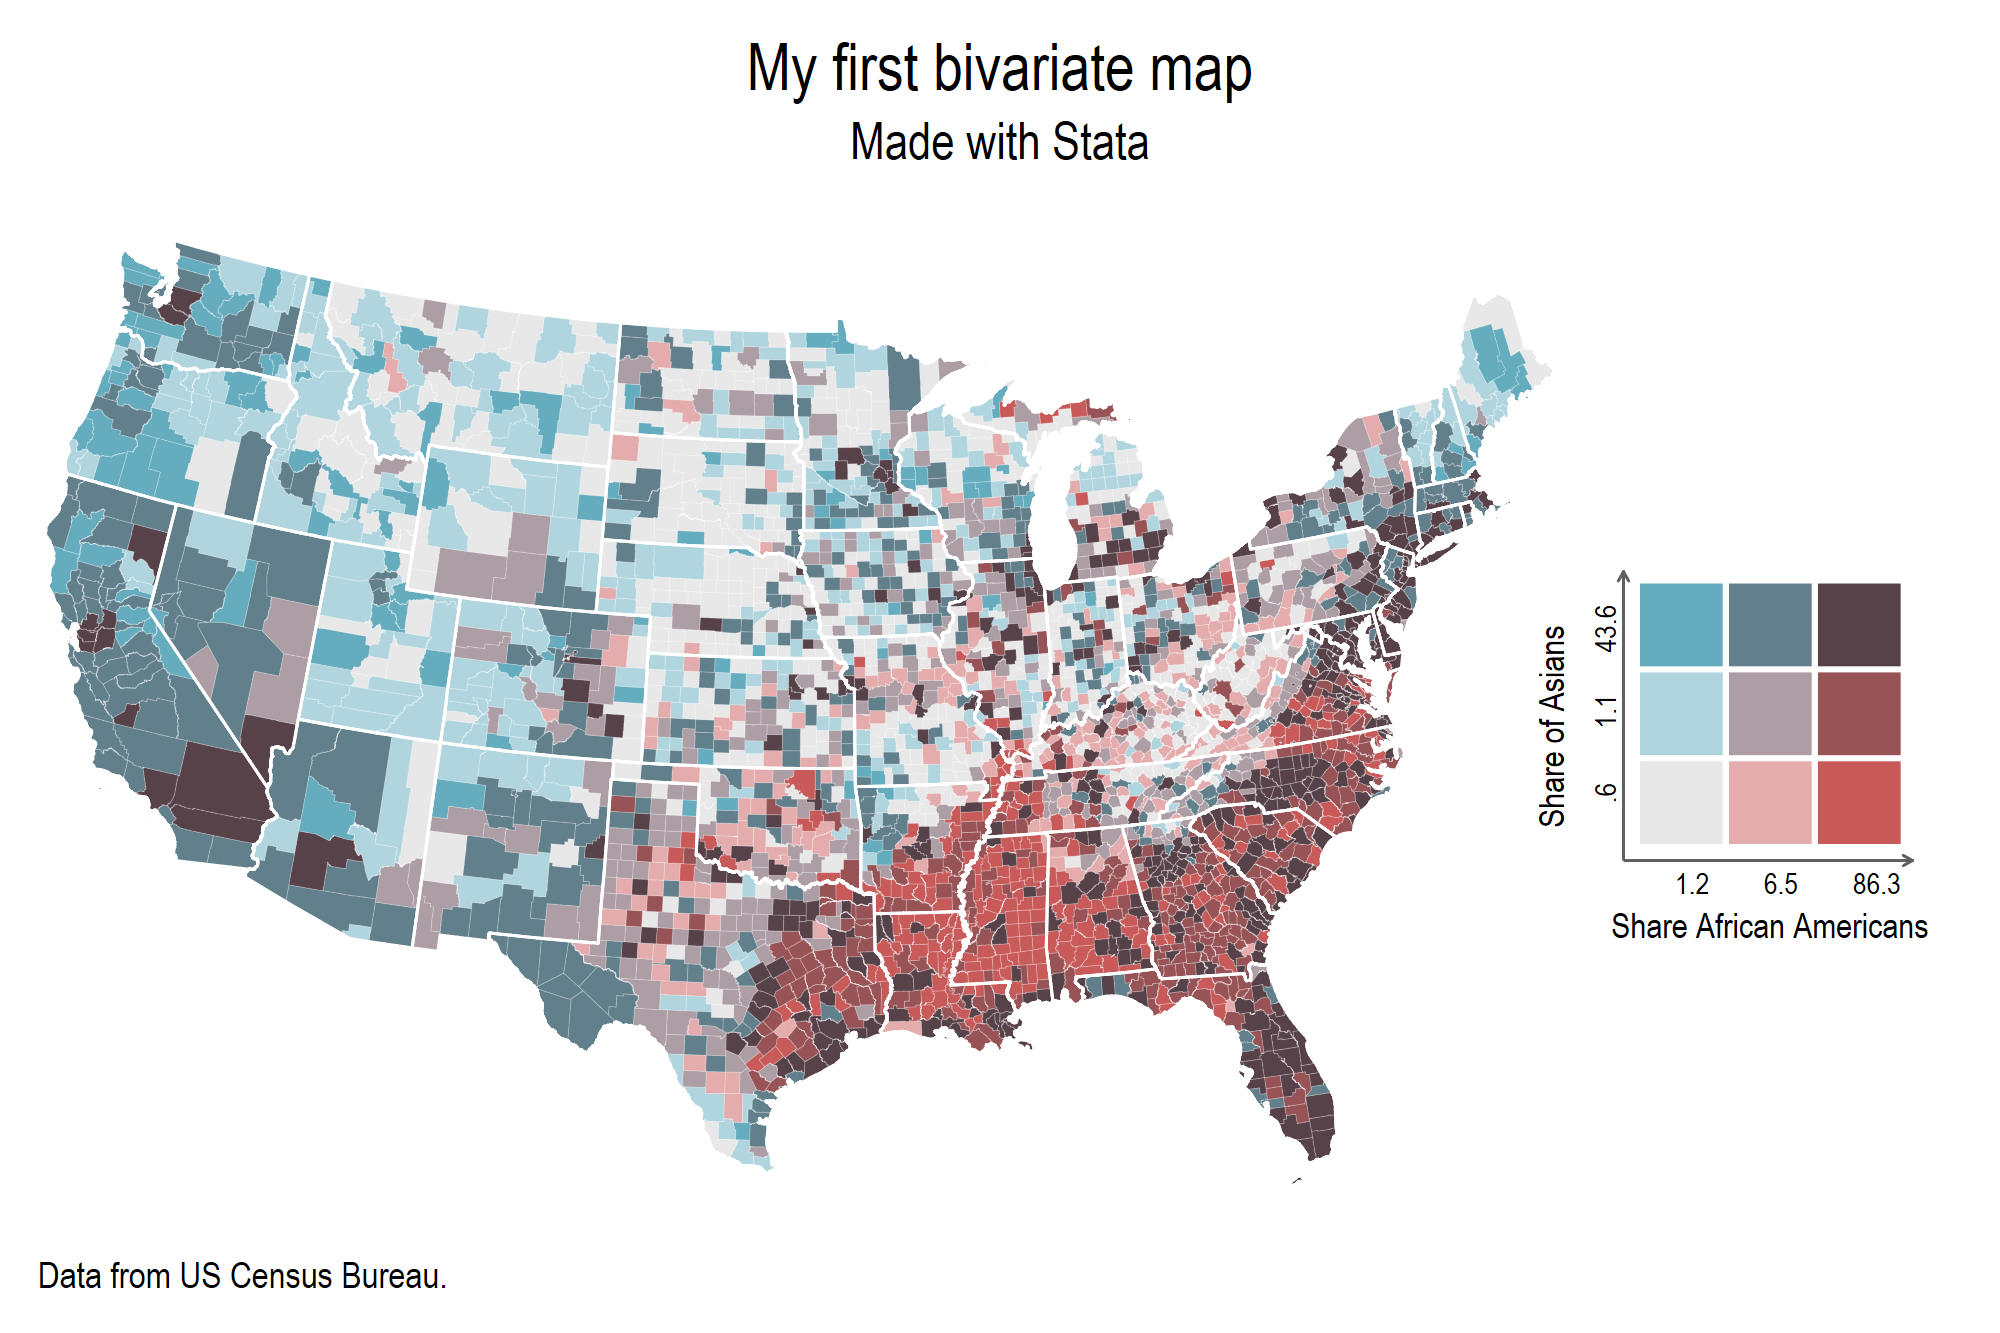
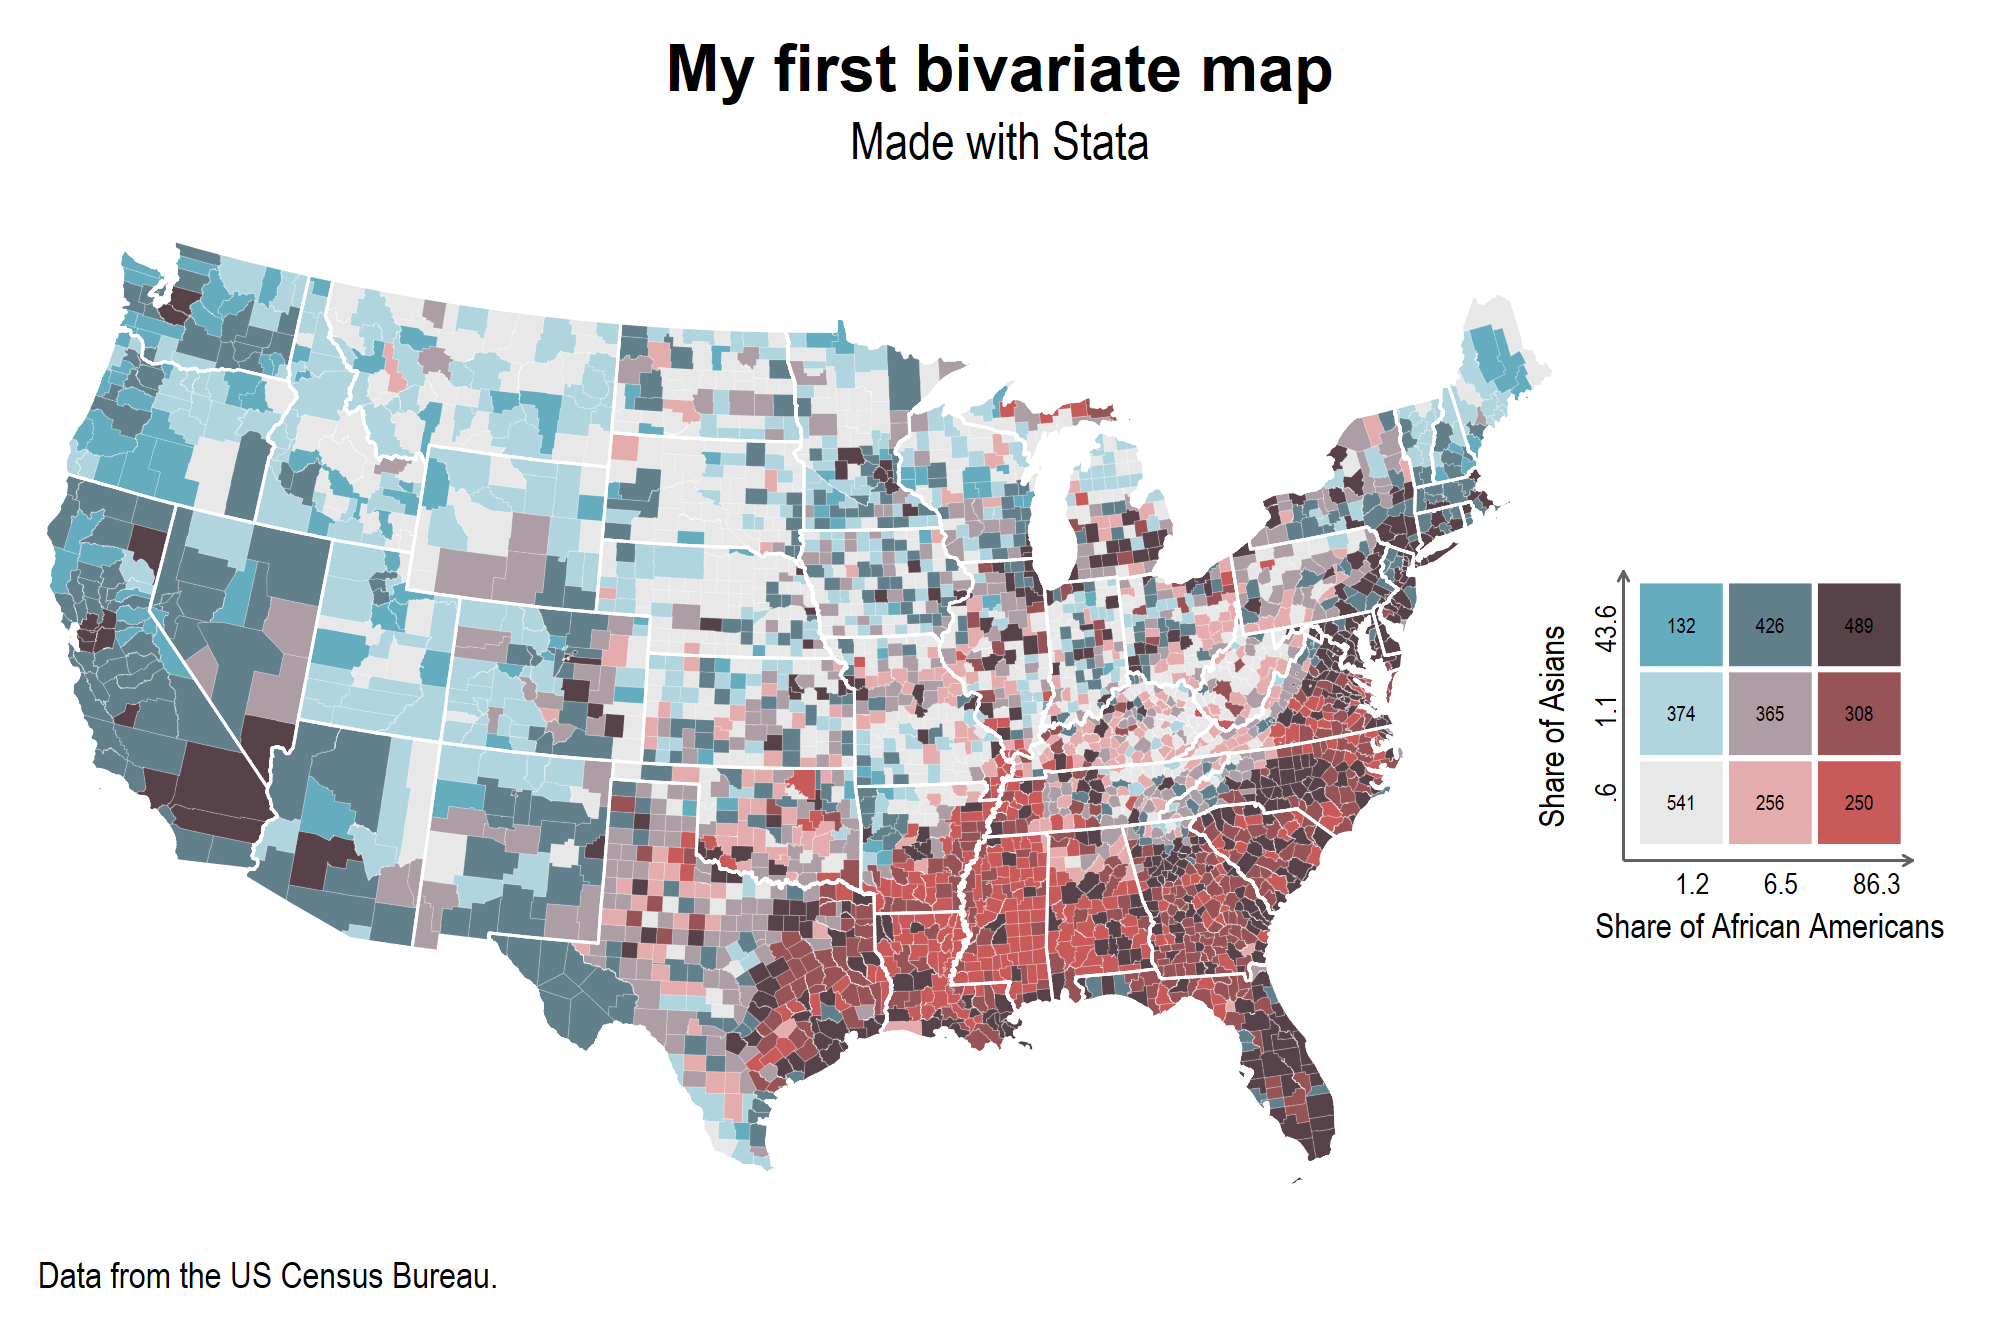
v1.2 update

Changed region(s): [[0.31, 0.0308, 0.682, 0.0923], [0.093, 0.9227, 0.248, 0.9842], [0.806, 0.6767, 0.961, 0.7074]]

diff --git a/README.md b/README.md
@@ -1,7 +1,7 @@
 
 ![StataMin](https://img.shields.io/badge/stata-2015-blue) ![issues](https://img.shields.io/github/issues/asjadnaqvi/stata-bimap) ![license](https://img.shields.io/github/license/asjadnaqvi/stata-bimap) ![Stars](https://img.shields.io/github/stars/asjadnaqvi/stata-bimap) ![version](https://img.shields.io/github/v/release/asjadnaqvi/stata-bimap) ![release](https://img.shields.io/github/release-date/asjadnaqvi/stata-bimap)
 
-# bimap v1.1
+# bimap v1.2
 
 This package provides the ability to draw bi-variate maps in Stata. It is based on the [Bi-variate maps Guide](https://medium.com/the-stata-guide/stata-graphs-bi-variate-maps-b1e96dd4c2be) that I released in December 2021.
 
@@ -15,7 +15,7 @@ The package can be installed from SSC (**v1.0**):
 ssc install bimap, replace
 ```
 
-Or it can be installed from GitHub (**v1.1**):
+Or it can be installed from GitHub (**v1.2**):
 
 ```
 net install bimap, from("https://raw.githubusercontent.com/asjadnaqvi/stata-bimap/main/installation/") replace
@@ -30,6 +30,8 @@ ssc install spmap, replace
 ssc install palettes, replace
 ssc install colrspace, replace
 ```
+
+Even if you have these packages installed, please check for updates: `ado update, update`.
 
 If you want to make a clean figure, then it is advisable to load a clean scheme. These are several available and I personally use the following:
 
@@ -96,24 +98,46 @@ keep if _m==3
 drop _m	
 ```
 
-Test if `spmap` is working properly.
+Test whether the `spmap` is working properly:
 
-We can generate basic graphs as follows:
 
 ```
 spmap share_afam using usa_county_shp_clean, id(_ID) clm(custom) clb(0(10)100) fcolor(Heat)
 ```
 
-<img src="/figures/bimap1.png" height="600">
+<img src="/figures/bimap1_1.png" height="600">
 
 
-Let's test the command:
+```
+spmap share_hisp using usa_county_shp_clean, id(_ID) clm(custom) clb(0(10)100) fcolor(Heat)
+```
+
+<img src="/figures/bimap1_1.png" height="600">
+
+
+
+
+Let's test the `bimap` command:
 
 ```
 bimap share_hisp share_afam using usa_county_shp_clean, cut(pctile) palette(pinkgreen) 	
 ```
 
 <img src="/figures/bimap2.png" height="600">
+
+
+```
+bimap share_hisp share_afam using usa_county_shp_clean, cut(pctile) palette(pinkgreen) count values
+```
+
+<img src="/figures/bimap2_1.png" height="600">
+
+
+```
+bimap share_hisp share_afam using usa_county_shp_clean, cut(equal) palette(pinkgreen) count values
+```
+
+<img src="/figures/bimap2_2.png" height="600">
 
 
 ```
@@ -127,10 +151,10 @@ bimap share_hisp share_afam using usa_county_shp_clean, cut(pctile) palette(purp
 
 ```
 bimap share_asian share_afam using usa_county_shp_clean, cut(pctile) palette(bluered)  ///
-	title("My first bivariate map") subtitle("Made with Stata") note("Data from US Census Bureau.") ///	
-		 textx("Share African Americans") texty("Share of Asians") texts(3.5) textlabs(3) values ///
-		 ocolor() osize() ///
-		 polygon(data("usa_state_shp_clean") ocolor(white) osize(0.3))
+	title("{fontface Arial Bold:My first bivariate map}") subtitle("Made with Stata") note("Data from the US Census Bureau.") ///	
+	textx("Share of African Americans") texty("Share of Asians") texts(3.5) textlabs(3) values count ///
+	ocolor() osize(none) ///
+	polygon(data("usa_state_shp_clean") ocolor(white) osize(0.3))
 ```
 
 <img src="/figures/bimap4.png" height="600">
@@ -141,6 +165,12 @@ Please open an [issue](https://github.com/asjadnaqvi/stata-bimap/issues) to repo
 
 
 ## Versions
+
+**v1.2 (29 Apr 2022)**
+- Error in how cut-off are collected fixed.
+- Several `spmap` additional layer commands added as passthru options.
+- Count of each category added as an option.
+- Several bug fixes and error checks added.
 
 **v1.1 (14 Apr 2022)**
 - Errors in ado file corrected.
